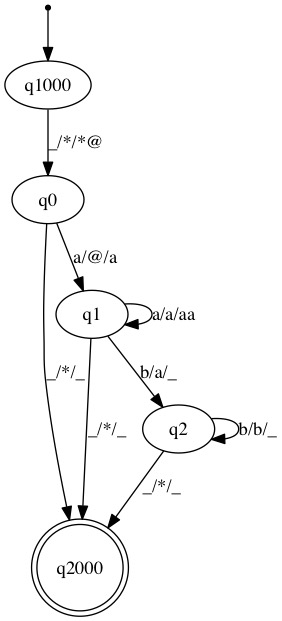
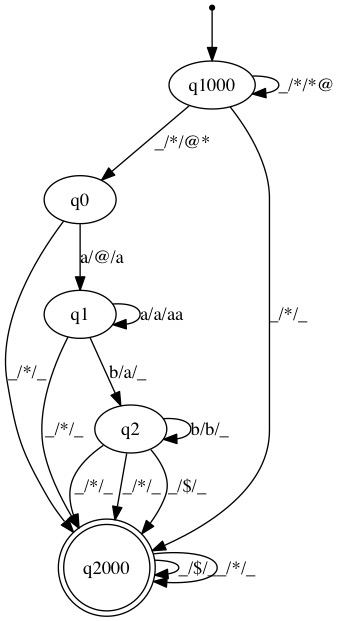
Some changes

diff --git a/src/automata/NFAPila.java b/src/automata/NFAPila.java
@@ -6,15 +6,15 @@ import java.util.Iterator;
 
 import utils.Quintuple;
 
-public final class DFAPila extends AP{
+public final class NFAPila extends AP{
 
 	private   Object nroStates[] ;
   private Stack<Character> stack; //the stack of the automaton
 
 
   /**
-   * Constructor of the class - returns a DFAPila object
-   * @param states - states of the DFAPila
+   * Constructor of the class - returns a NFAPila object
+   * @param states - states of the NFAPila
    * @param alphabet - the alphabet of the automaton
    * @param stackAlphabet - the alphabet of the stack
    * @param transitions - transitions of the automaton
@@ -23,7 +23,7 @@ public final class DFAPila extends AP{
    * @param final_states - acceptance states of the automaton
    * @throws IllegalArgumentException
    */
-  public DFAPila(
+  public NFAPila(
           Set<State> states,
           Set<Character> alphabet,
           Set<Character> stackAlphabet,
@@ -104,13 +104,13 @@ public final class DFAPila extends AP{
     	}
 			if (currentState!=null && finalStates.isEmpty() && stack.peek()==Joker){
         
-        System.out.println("Accepted for empty stack");
+        System.out.println("Empty stack");
         return true;
       
       }
 			if (currentState!=null && !finalStates.isEmpty() && getElemFromSet(finalStates,currentState)!= null){
 			
-      	System.out.println("Accepted for final States");
+      	System.out.println("Final States");
         return true;
       
       }
@@ -124,47 +124,13 @@ public final class DFAPila extends AP{
   public boolean rep_ok() {
     System.out.println("REP_OK REPORTS: \n");
     System.out.println("*StackAlphabet and LambdaTransitions: " + this.transitionConditions());
-    System.out.println("*Deterministic: "+ this.isDeterministic());
     System.out.println("*States: "+ this.reachableState()+"\n");
     
-    if(this.transitionConditions() && this.reachableState() && this.isDeterministic())
+    if(this.transitionConditions() && this.reachableState())
         
         return true;
   	
     return false;
-  }
-
-  public boolean isDeterministic(){
-    
-    Quintuple<State,Character,Character,String,State> cTransition1;
-    Quintuple<State,Character,Character,String,State> cTransition2;
-    boolean deterministic = true;
-
-    Iterator itTransitions1 = transitions.iterator();
-
-    while(itTransitions1.hasNext()){
-
-      Iterator itTransitions2 = transitions.iterator();
-      cTransition1 = (Quintuple) itTransitions1.next();
-      
-      while(itTransitions2.hasNext()){
-
-        cTransition2 = (Quintuple) itTransitions2.next();
-
-        if(cTransition1.first().equals(cTransition2.first()) &&
-          cTransition1.second()==cTransition2.second() &&
-          cTransition1.third()==cTransition2.third()){
-
-            deterministic = deterministic && 
-                           cTransition1.fourth().equals(cTransition2.fourth()) &&
-                           cTransition1.fifth().equals(cTransition2.fifth());
-        
-        }          
-
-      }
-
-    }
-    return deterministic;
   }
 
   public boolean transitionConditions(){
@@ -172,7 +138,6 @@ public final class DFAPila extends AP{
     Quintuple<State,Character,Character,String,State> cTransition;
     boolean belongsStackPop = true;
     boolean belongsStackAdd = true;
-    boolean lambdaTransition = true;
 
     while(itTransitions.hasNext()){
       
@@ -186,11 +151,9 @@ public final class DFAPila extends AP{
         belongsStackAdd = belongsStackAdd && stackAlphabet.contains(auxString.charAt(index));
       
       }
-      // No existen transiciones lambda
-      lambdaTransition = lambdaTransition && cTransition.second()!= Lambda;
     
     }
-    return belongsStackPop && belongsStackAdd &&  lambdaTransition;
+    return belongsStackPop && belongsStackAdd;
   }
 
   //There are no unreachable states
@@ -223,6 +186,7 @@ public final class DFAPila extends AP{
   public void to_empty_stack(){
     //TODO this method have to be implemented
     String aux = ""+Joker+Mark;
+    System.out.println(aux);
     String lambdaString = ""+Lambda;
     
     // Nuevo estado inicial

diff --git a/src/automata/Main.java b/src/automata/Main.java
@@ -22,18 +22,26 @@ public class Main{
     State initial = null;
     Set<State> final_states = new HashSet<State>();
 		
+
 		DFAPila dfap = new DFAPila(states,alphabet,stackAlphabet,transitions,stackInitial,initial,final_states);
+		dfap.from_dot(new File("text/sampleFinalState.txt"));
+		//dfap.from_dot(new File("text/sampleEmptyStack.txt"));
 
-		dfap.from_dot(new File("text/sample.txt"));
-
+		//Se evalua la cadena "ab" con el automata dfap1
 		boolean result = dfap.accepts("ab");
-		System.out.println("Automata acepta la cadena: "+result);
-		//dfap.to_empty_stack();
-		dfap.to_final_state();
+		System.out.println("El automata acepta la cadena: "+result);
+		
+		//Se ejecutan los algoritmos de transformaciones
+		dfap.to_empty_stack();
+		//dfap.to_final_state();
+		
+		//Se almacena en un string el resultados del algoritmo ejecutado
 		String to_dot = dfap.to_dot();
 
 		try{
+			//Se pasa el resultado del algoritmos a un archivo dot
 			String newFileDot = new String("text/automaton.txt");
+
 			File file = new File(newFileDot);
 
 			BufferedWriter bw = new BufferedWriter(new FileWriter(newFileDot));
@@ -44,6 +52,7 @@ public class Main{
          e.printStackTrace();
     }
     try{
+    	//Inicializacion necesaria para la libreria "graphviz"
     	String dotPath = "/usr/local/bin/dot";
 	    String fileInputPath = "text/automaton.txt";
 	    String fileOutputPath = "output/automaton.jpg";
@@ -59,16 +68,12 @@ public class Main{
 	                
 	    Runtime rt = Runtime.getRuntime();
 	    
-	    rt.exec( cmd );
+	    //Se crea el grafico del automata obtenido
+	    rt.exec(cmd);
+
     }catch(Exception ex) {
       ex.printStackTrace();
     }
-    
-
-
-
-
-		
 
 	}
 }
